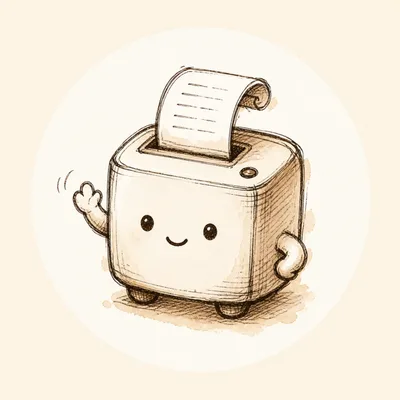
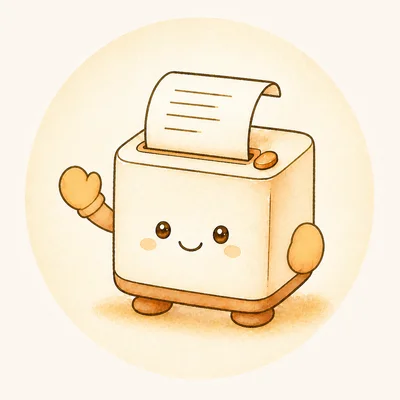
マスコットのレジまる・ポスタを描き直し（茶色の線と水彩、手は手袋、ポスタはまっすぐ。運営者の OK）

diff --git a/CLAUDE.md b/CLAUDE.md
@@ -120,7 +120,7 @@ npm run og      # OGP 画像（public/og-image.png）を作り直す
 ### マスコット（レジまる・ポスタ）
 
 - レジまる＝顔と手のついたレシートプリンター（プリンター・キャッシュドロア・バーコードリーダー・ハンディなどの担当）、ポスタ＝画面に顔の出るタブレットのPOSレジ（POSレジ・決済端末・業務用Android・ネットワークの担当）。どちらも **AI のキャラクター**で、人が書いているように見せない
-- 画像は `public/images/mascots/rejimaru.webp`・`posuta.webp`（記事の中では小さく丸く表示される）。元の絵は Canva の作業用デザイン 87・88 ページ
+- 画像は `public/images/mascots/rejimaru.webp`・`posuta.webp`（記事の中では小さく丸く表示される）。元の絵は Canva の MAHboScnROc（レジまる）・MAHboaheGVI（ポスタ）。2026-11-22 に描き直し：茶色の線と水彩、手は指のない手袋（ミトン）、ポスタはまっすぐ立つ。読者役 5 人のアンケートで紫・機械的な線・分かりにくい手を直した
 - 紹介記事は `mascot-introduction`（2026年10月25日 7:00 公開予定）
 - **X・Instagram で記事を紹介するときは、レジまるとポスタが紹介する**。投稿の文章は2人のセリフの形にし（記事のテーマに近い担当が先に話す）、画像には**2人のアイコンを入れる**（Instagram の表紙のスライドなど）。口調はやさしい「です・ます」で、語尾の「〜まる」・タメ口は使わない
 - **X・Instagram の投稿文には、絵文字や顔文字を入れてよい**（2026-11-06 に運営者が許可）。話の内容に合う面白いものを、セリフの最後に1人1個まで。**おじさん構文に気をつける**：絵文字や記号を重ねない、語尾をカタカナにしない、馴れ馴れしくしない。😅😘❣、ハート、！の連続は使わない。法律・資格・料金の注意が中心の記事には付けない。画像の中の文字には入れない（文字化けするおそれがあるため）

diff --git a/content/posts/mascot-introduction.md b/content/posts/mascot-introduction.md
@@ -17,7 +17,7 @@ reviewNotes:
 
 今日から、このブログに**2人のマスコット**が仲間入りしました。お店のレジまわりでおなじみの機器が、そのままキャラクターになっています。
 
-![顔と手のついたレシートプリンターのレジまると、画面に顔の出たタブレットのPOSレジのポスタが並んでいる手描きのイラスト](/images/posts/mascot-introduction-1.webp)
+![手袋をはめたレシートプリンターのレジまると、画面に顔の出たタブレットのPOSレジのポスタが並んでいるイラスト](/images/posts/mascot-introduction-1.webp)
 
 ## レジまる（レシートプリンター）
 
